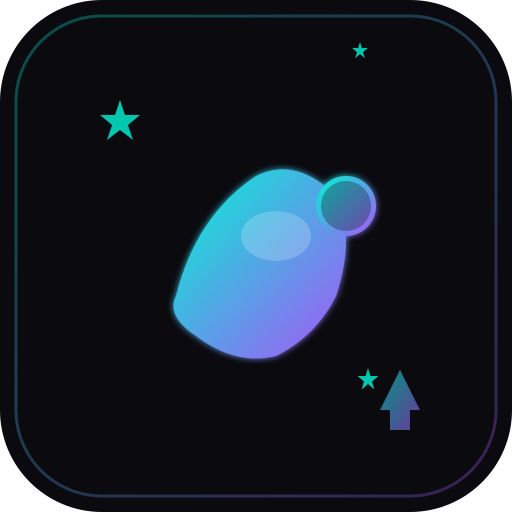
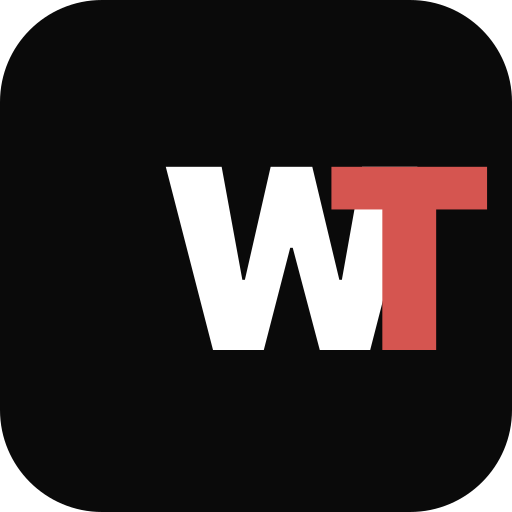
rebrand: Trained → WellTrained (WELL white, TRAINED red)
Update app name and branding across all screens, meta tags, PWA
manifest, and icons. New icon: black background with white W + red T.

diff --git a/index.html b/index.html
@@ -9,12 +9,12 @@
     <meta name="theme-color" content="#0a0a0a" />
     <meta name="apple-mobile-web-app-capable" content="yes" />
     <meta name="apple-mobile-web-app-status-bar-style" content="black-translucent" />
-    <meta name="apple-mobile-web-app-title" content="Trained" />
-    <meta name="description" content="Trained - The protocol for building discipline through fitness." />
+    <meta name="apple-mobile-web-app-title" content="WellTrained" />
+    <meta name="description" content="WellTrained - The protocol for building discipline through fitness." />
     <meta name="mobile-web-app-capable" content="yes" />
     <!-- Open Graph -->
     <meta property="og:type" content="website" />
-    <meta property="og:title" content="Trained" />
+    <meta property="og:title" content="WellTrained" />
     <meta property="og:description" content="The protocol for building discipline through fitness." />
     <meta property="og:url" content="https://app.welltrained.fitness" />
     <meta property="og:image" content="https://app.welltrained.fitness/og-image.png" />
@@ -22,12 +22,12 @@
     <meta property="og:image:height" content="630" />
     <!-- Twitter -->
     <meta name="twitter:card" content="summary_large_image" />
-    <meta name="twitter:title" content="Trained" />
+    <meta name="twitter:title" content="WellTrained" />
     <meta name="twitter:description" content="The protocol for building discipline through fitness." />
     <meta name="twitter:image" content="https://app.welltrained.fitness/og-image.png" />
     <link rel="apple-touch-icon" href="/apple-touch-icon.png" />
     <link rel="mask-icon" href="/icon.svg" color="#8B1A1A" />
-    <title>Trained</title>
+    <title>WellTrained</title>
     <!-- Plausible Analytics - Privacy-friendly, no cookies -->
     <script defer data-domain="app.welltrained.fitness" src="https://plausible.io/js/script.js"></script>
   </head>

diff --git a/src/screens/AccessGate.tsx b/src/screens/AccessGate.tsx
@@ -67,7 +67,7 @@ export function AccessGate({ onAccessGranted }: AccessGateProps) {
           <Shield size={72} className="mx-auto text-primary" />
         </div>
         <h1 className="text-3xl font-bold">
-          Trained
+          <span className="text-white">Well</span><span className="text-primary">Trained</span>
         </h1>
         <p className="text-muted-foreground mt-2">
           The protocol for building discipline
@@ -190,7 +190,7 @@ export function AccessGate({ onAccessGranted }: AccessGateProps) {
 
       {/* Footer */}
       <p className="text-muted-foreground/50 text-xs mt-8 text-center animate-in fade-in duration-500 delay-500">
-        © {new Date().getFullYear()} Trained. All rights reserved.
+        © {new Date().getFullYear()} WellTrained. All rights reserved.
       </p>
 
       {/* Success Modal */}

diff --git a/src/screens/Auth.tsx b/src/screens/Auth.tsx
@@ -125,7 +125,7 @@ export function Auth() {
       <div className="w-full max-w-md animate-in fade-in slide-in-from-bottom-4 duration-500">
         {/* Logo */}
         <div className="text-center mb-8">
-          <h1 className="text-3xl font-heading font-bold tracking-wide">TRAINED</h1>
+          <h1 className="text-3xl font-heading font-bold tracking-wide"><span className="text-white">WELL</span><span className="text-primary">TRAINED</span></h1>
           <p className="text-muted-foreground mt-2">
             {mode === 'login' && 'Welcome back'}
             {mode === 'signup' && 'Build discipline through fitness'}

diff --git a/src/screens/Settings.tsx b/src/screens/Settings.tsx
@@ -782,8 +782,8 @@ export function Settings() {
         <Card className="py-0">
           <CardContent className="p-3">
             <div className="text-center">
-              <p className="text-sm text-muted-foreground font-heading font-semibold">
-                Trained
+              <p className="text-sm font-heading font-semibold">
+                <span className="text-white">Well</span><span className="text-primary">Trained</span>
               </p>
               <p className="text-xs text-muted-foreground">Version 1.0.0</p>
               <p className="text-xs text-muted-foreground/60 mt-2">

diff --git a/vite.config.ts b/vite.config.ts
@@ -13,8 +13,8 @@ export default defineConfig({
       registerType: 'prompt',
       includeAssets: ['favicon.svg', 'favicon-16x16.png', 'favicon-32x32.png', 'apple-touch-icon.png', 'icon.svg'],
       manifest: {
-        name: 'Trained',
-        short_name: 'Trained',
+        name: 'WellTrained',
+        short_name: 'WellTrained',
         description: 'The protocol for building discipline through fitness.',
         theme_color: '#0a0a0a',
         background_color: '#0a0a0a',

diff --git a/src/screens/Onboarding.tsx b/src/screens/Onboarding.tsx
@@ -326,7 +326,7 @@ function WelcomeStep({ onNext }: { onNext: () => void }) {
     <div className="text-center">
       <div className="mb-8 animate-in fade-in slide-in-from-bottom-4 duration-500 delay-200">
         <h1 className="text-4xl font-bold mb-4">
-          Trained
+          <span className="text-white">Well</span><span className="text-primary">Trained</span>
         </h1>
       </div>
       <div className="animate-in fade-in duration-500 delay-500">
